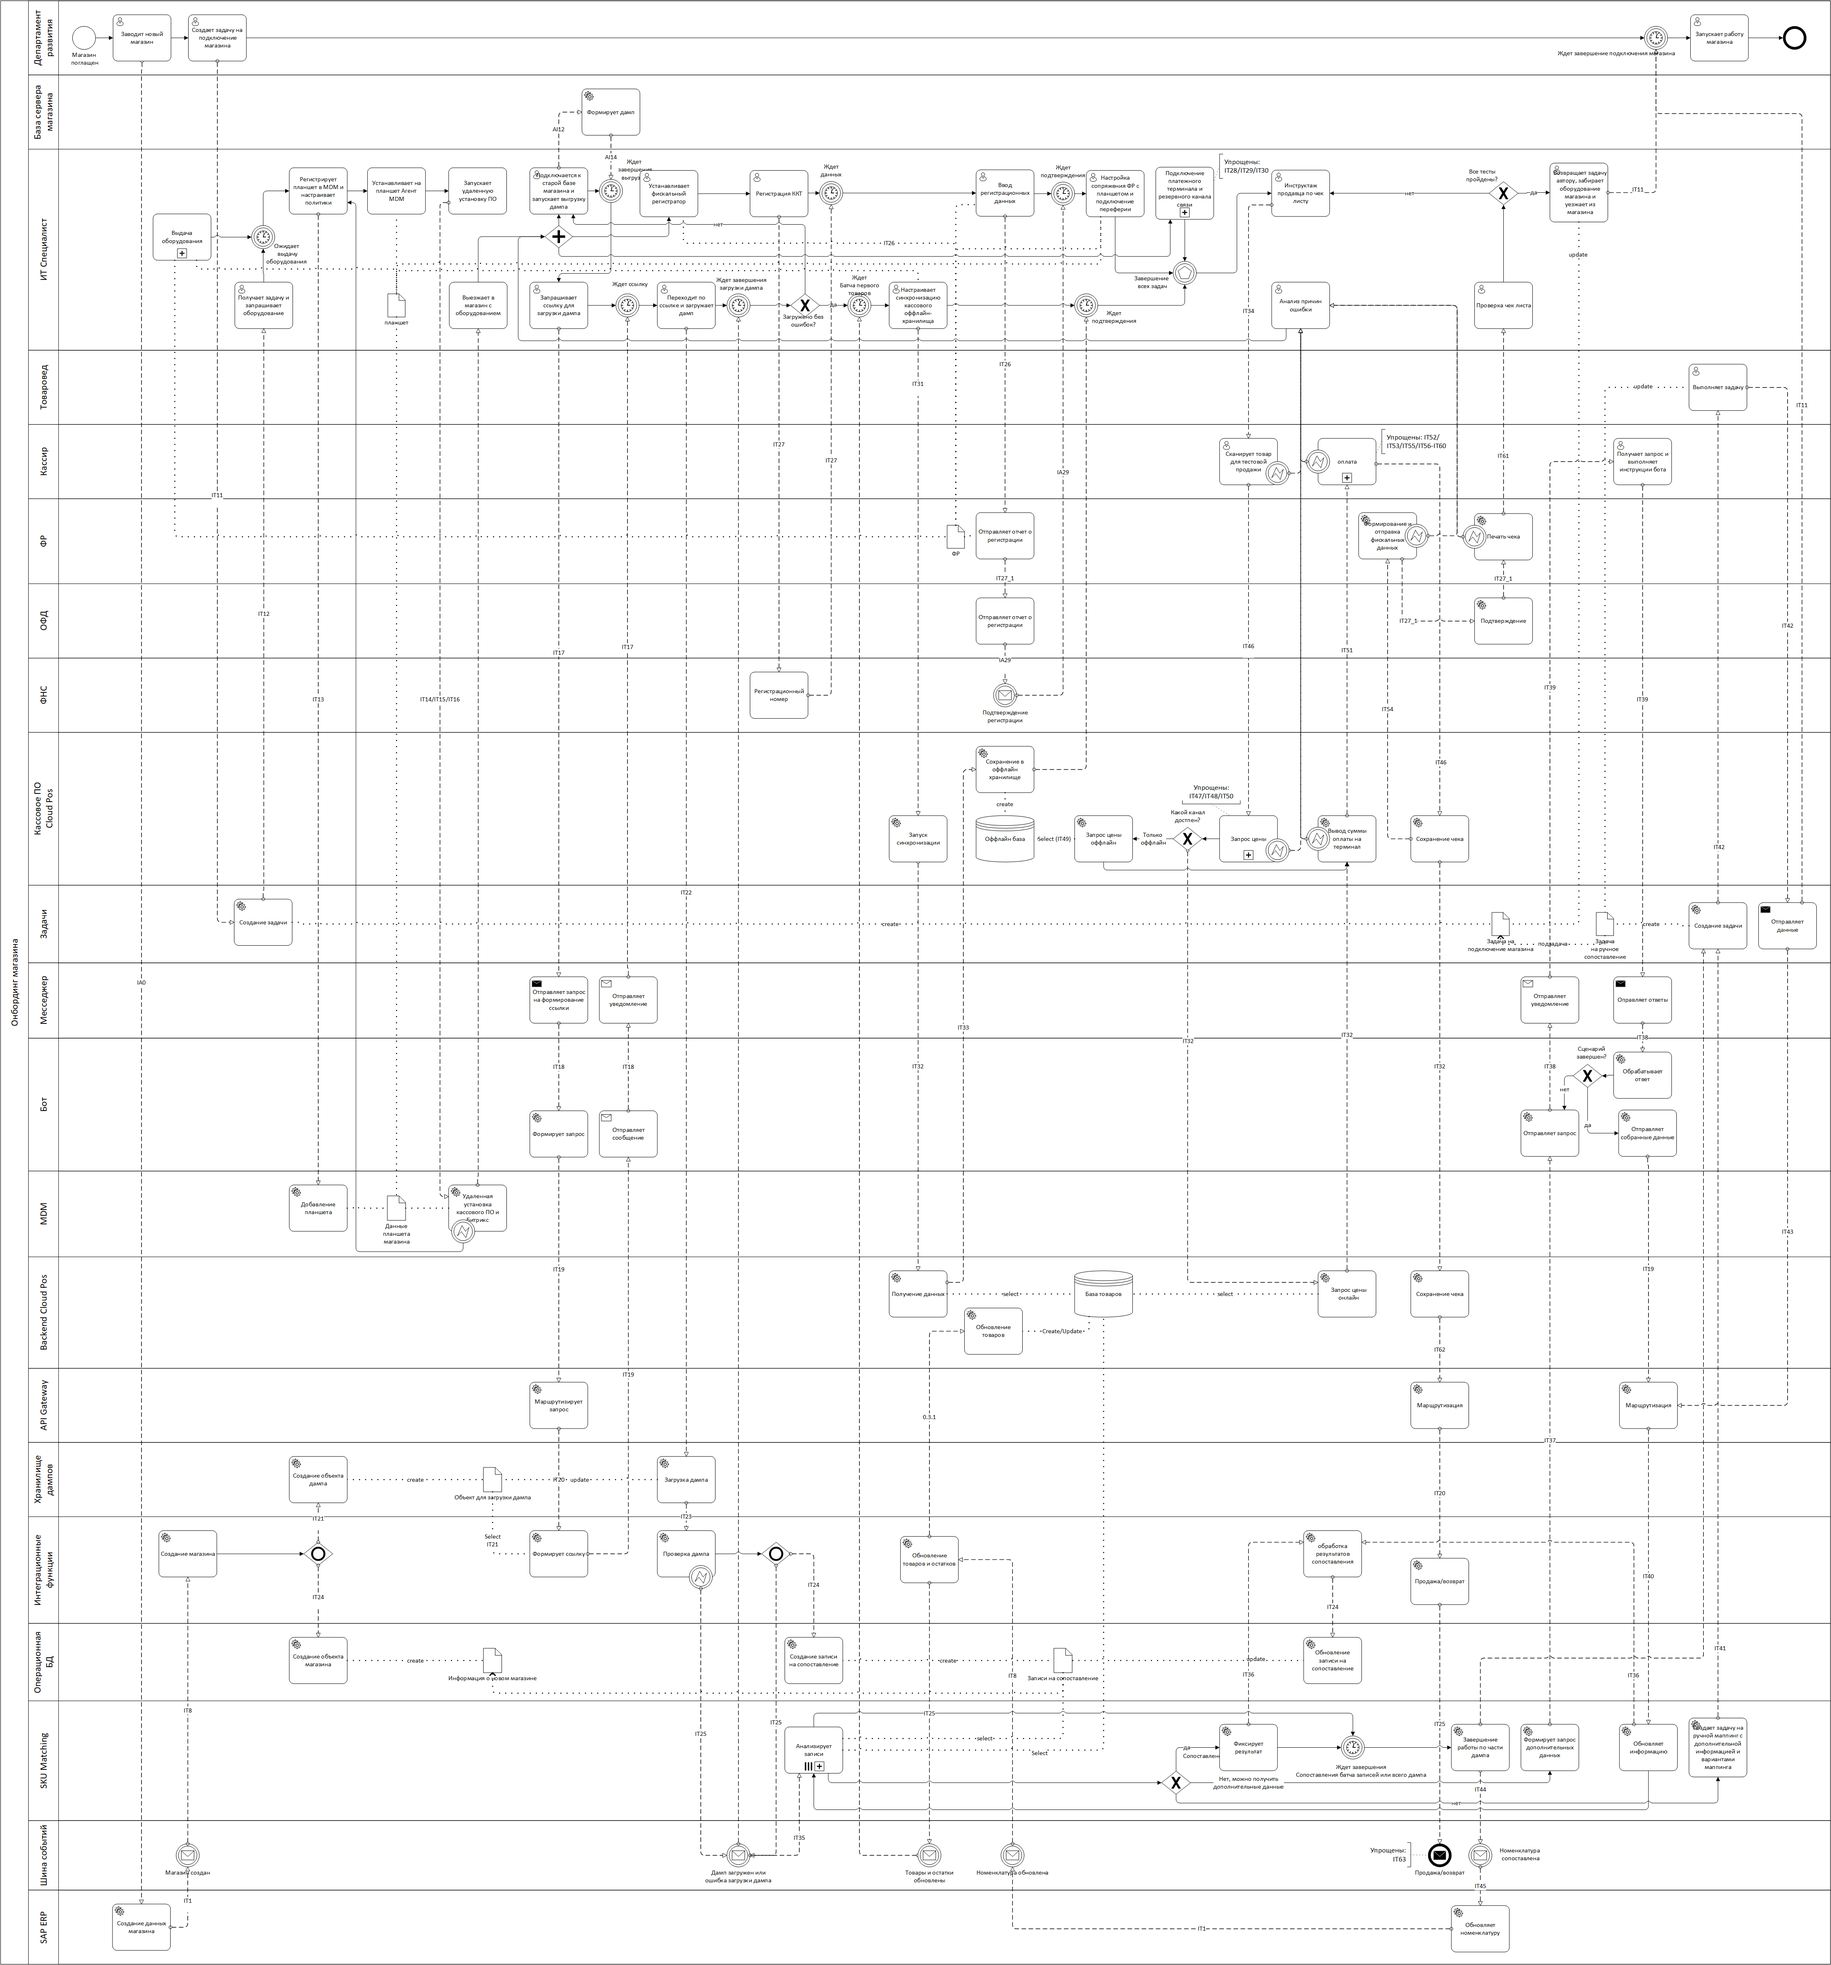
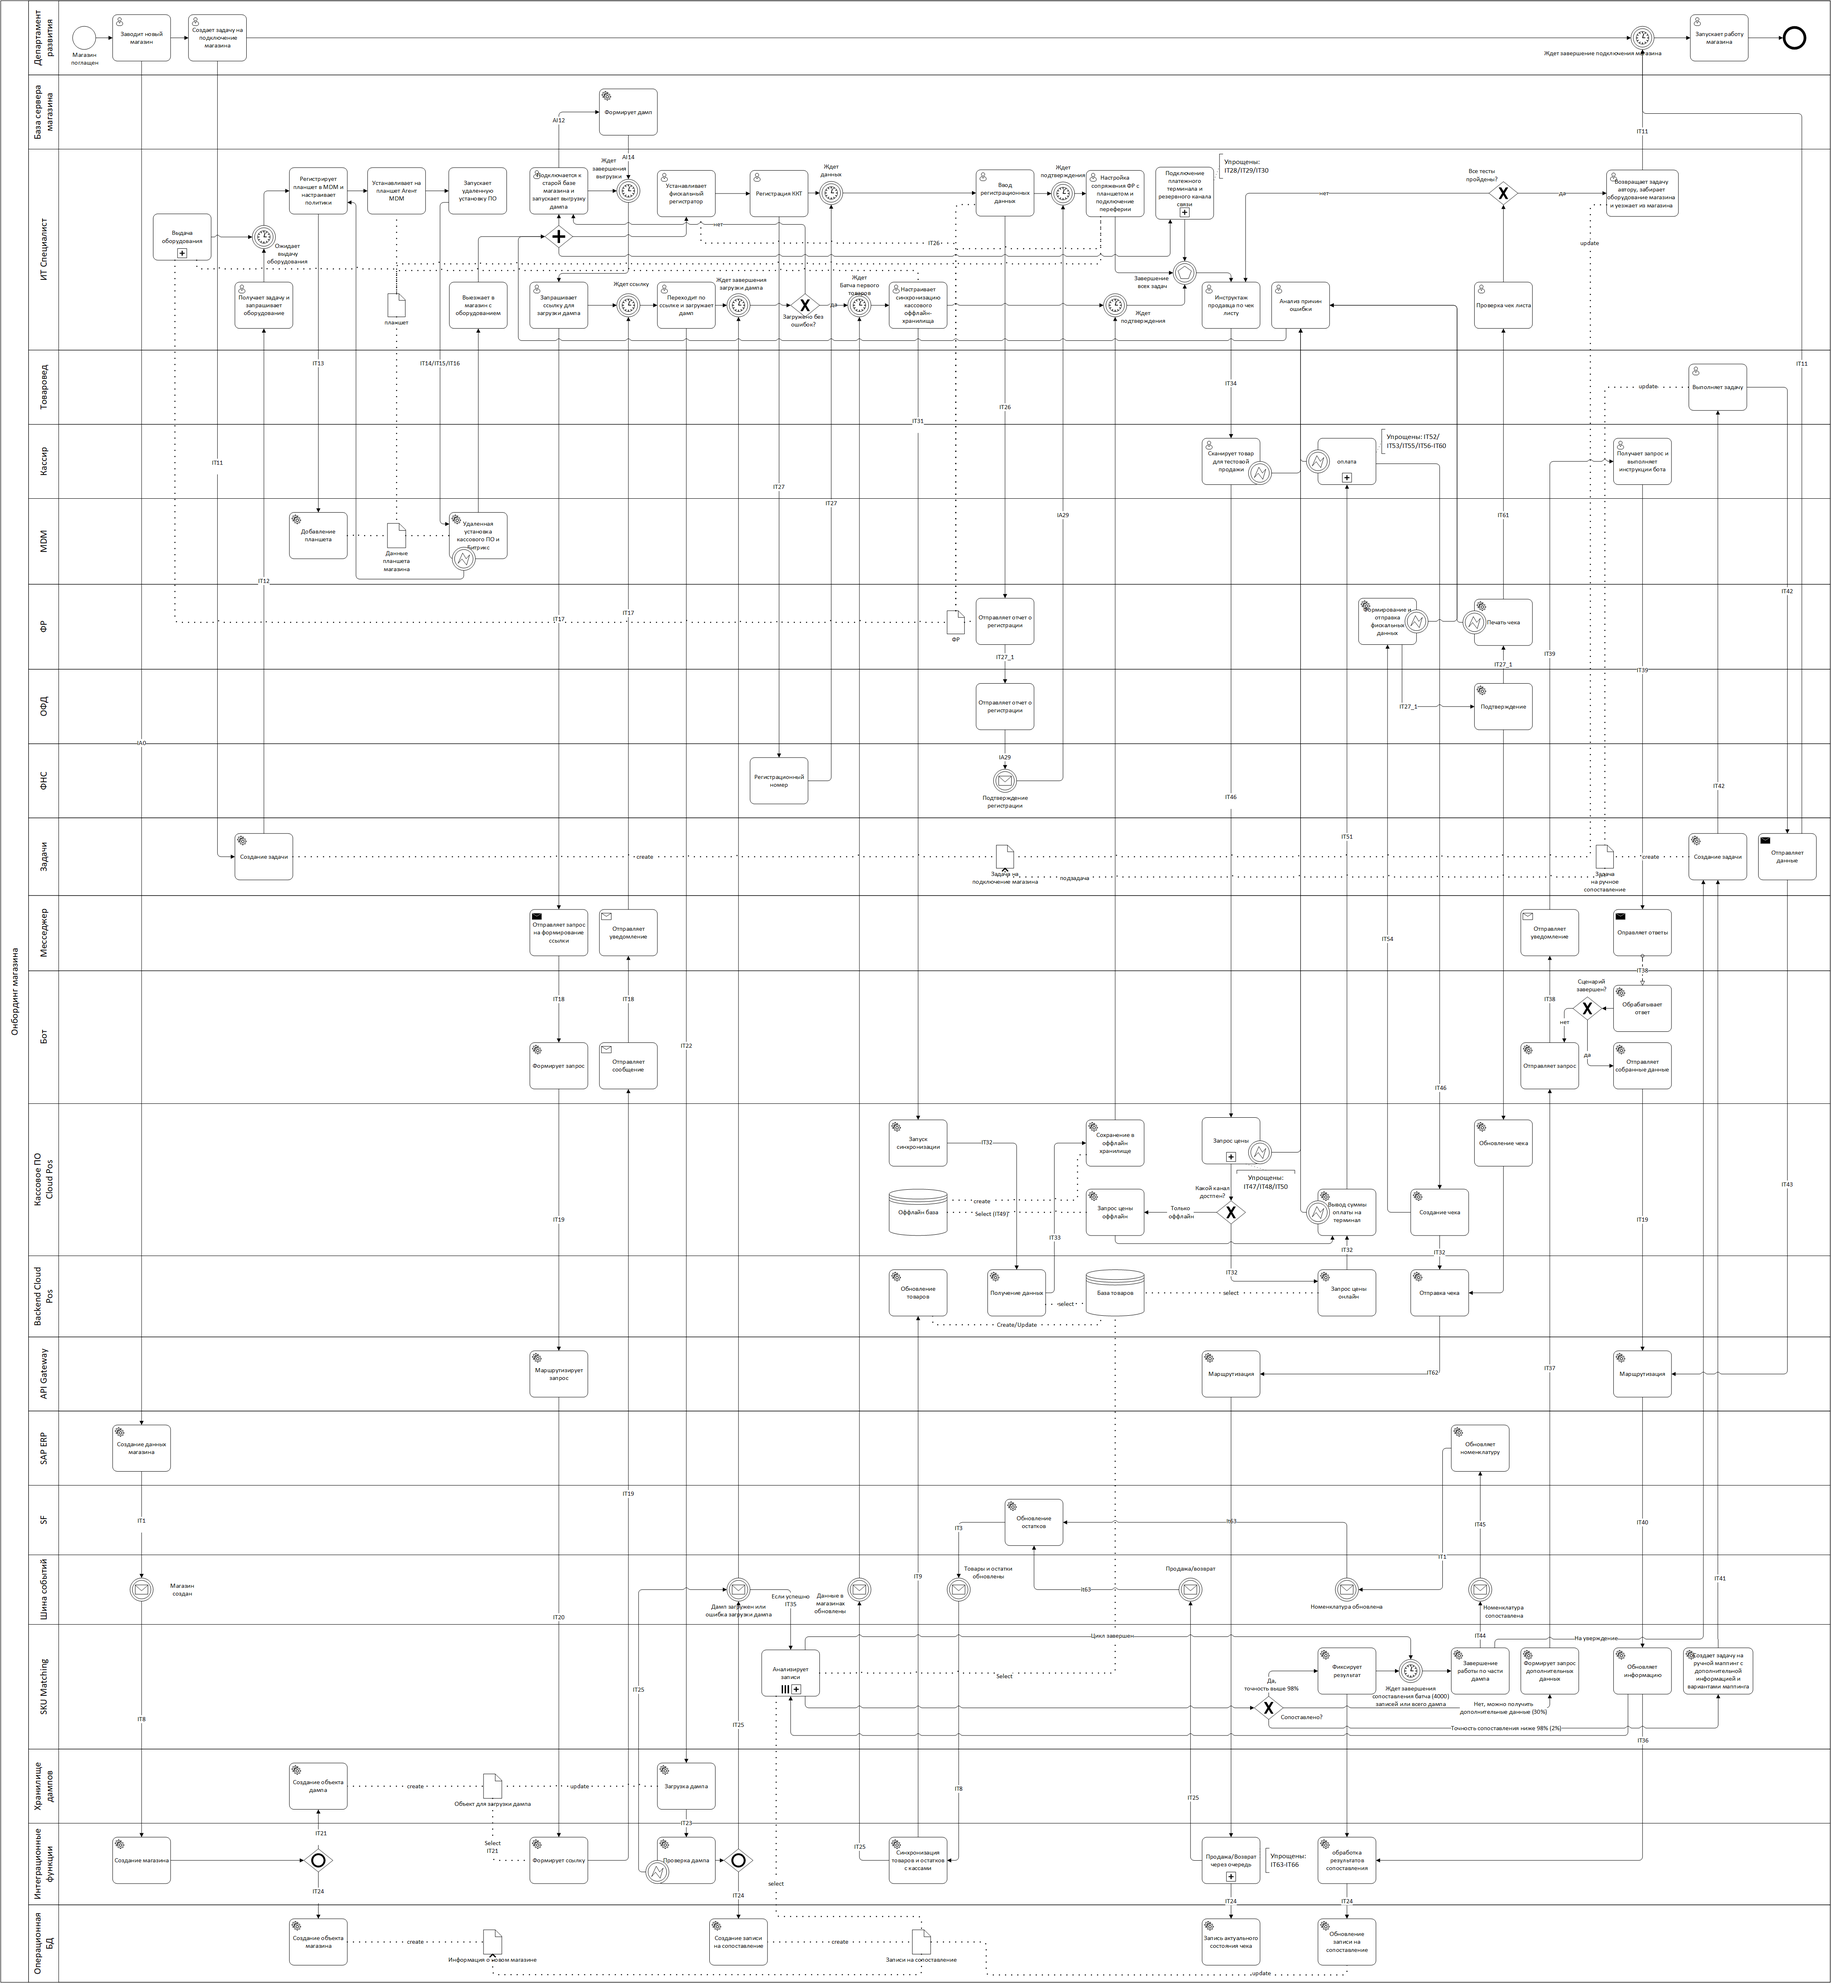
Add files via upload

diff --git a/task2/TO-BE.md b/task2/TO-BE.md
@@ -1,0 +1,54 @@
+## Описание онбординга магазина: как участвует человек
+
+### Роли и их участие
+
+Департамент развития:
+- заводит поглощенный магазин в SAP ERP
+- cтавит задачу на подключение купленного магазина в задачах (Битрикс24)
+- отслеживает задачу и контролирует исполнение всех подзадач
+- запускает работу магазина
+
+ИТ-специалист:
+- В ЦО:
+  - получает оборудование из парка оборудования (Планшет, ФР, LTE, терминал)
+  - регистрирует планшет в MDM в ЦО, устанавливает Агент, отлаживает политики и удаленную настройку приложений
+- В магазине (1 выезд):
+  - передает данные из магазина
+    - снимает дамп с локального сервера магазина, 
+    - загружает его по полученной ссылке через месседжер (Битрикс24)
+    - ожидает завершение успешной загрузки дампа
+    - при возникновении ошибок повторяет действия до успешного результата
+  - устанавливает ФР
+    - устанавливает ФР, 
+    - регистрирует ККТ в ФНС, 
+    - вводит регистрационные данные с ФР 
+    - ожидает подтверждения регистрации от ФНС 
+    - настраивает сопряжение с планшетом
+    - подключает периферию к ФР
+    - при возникновении ошибок повторяет действия до успешного результата
+  - подключает платежный терминал (Сбербанк)
+  - настраивает резервный канал связи
+  - подключение к backend кассового ПО 
+    - настраивает синхронизацию с backend кассового ПО (Мой склад)
+    - ожидает успешного завершения синхронизации
+    - при возникновении ошибок повторяет действия до успешного результата
+  - после завершения всех предыдущих шагов, проводит инструктаж кассира и контролирует тестовые продажи по чек-листу
+    - при возникновении ошибок анализирует, что нужно повторить и повторяет действия до успешного результата
+  - увозит ненужное оборудование магазина
+
+Продавец:
+- проходит инструктаж и участвует в тестовых продажах
+- отвечает боту по неизвестным позициям в месседжере (Битрикс24) 
+
+Товаровед:
+- решает только эскалированные ИИ позиции (точность менее 98%) в задачах (Битрикс24)
+- верифицирует/утверждает сопоставленный батч из дампа
+
+### Время
+
+| Роль                 | Где работает                               | Сколько времени                             |
+|----------------------|--------------------------------------------|---------------------------------------------|
+| Департамент развития | Битрикс24 Задачи                           | до 3 ч ежедневно в течении 5 дней           |
+| ИТ-специалист        | ЦО, Битрикс24 Задачи, магазин (один выезд) | 1 рабочий день в ЦО + до 3х дней в магазине |
+| Продавец             | Магазин, планшет                           | до 5 ч ежедневно в течении 5 дней           |
+| Товаровед            | Битрикс24 Задачи                           | до 5 мин на эскалированную позицию          |
